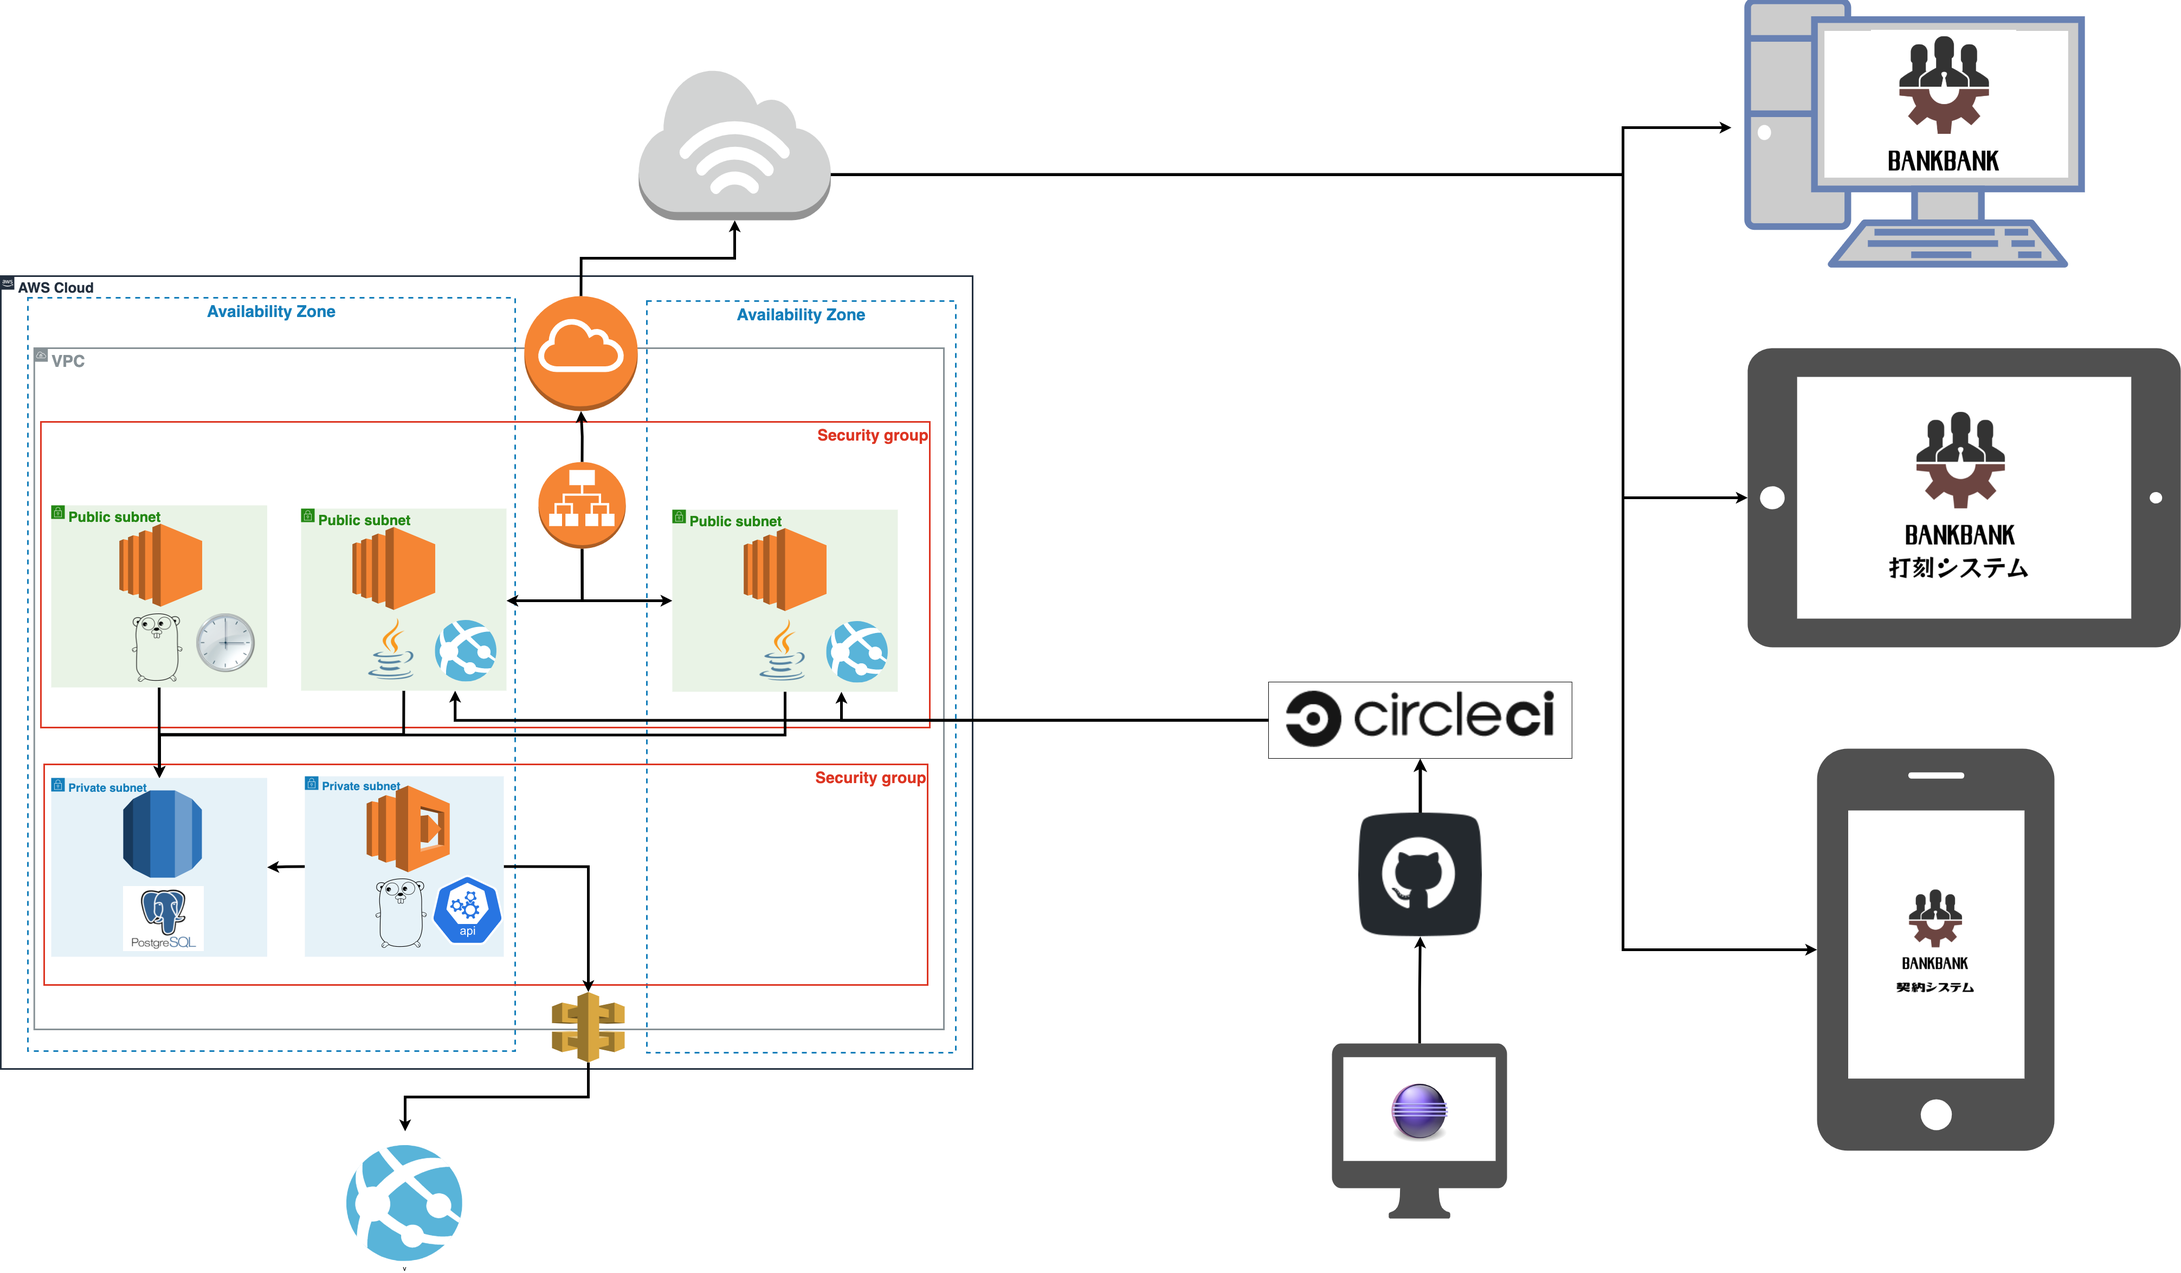
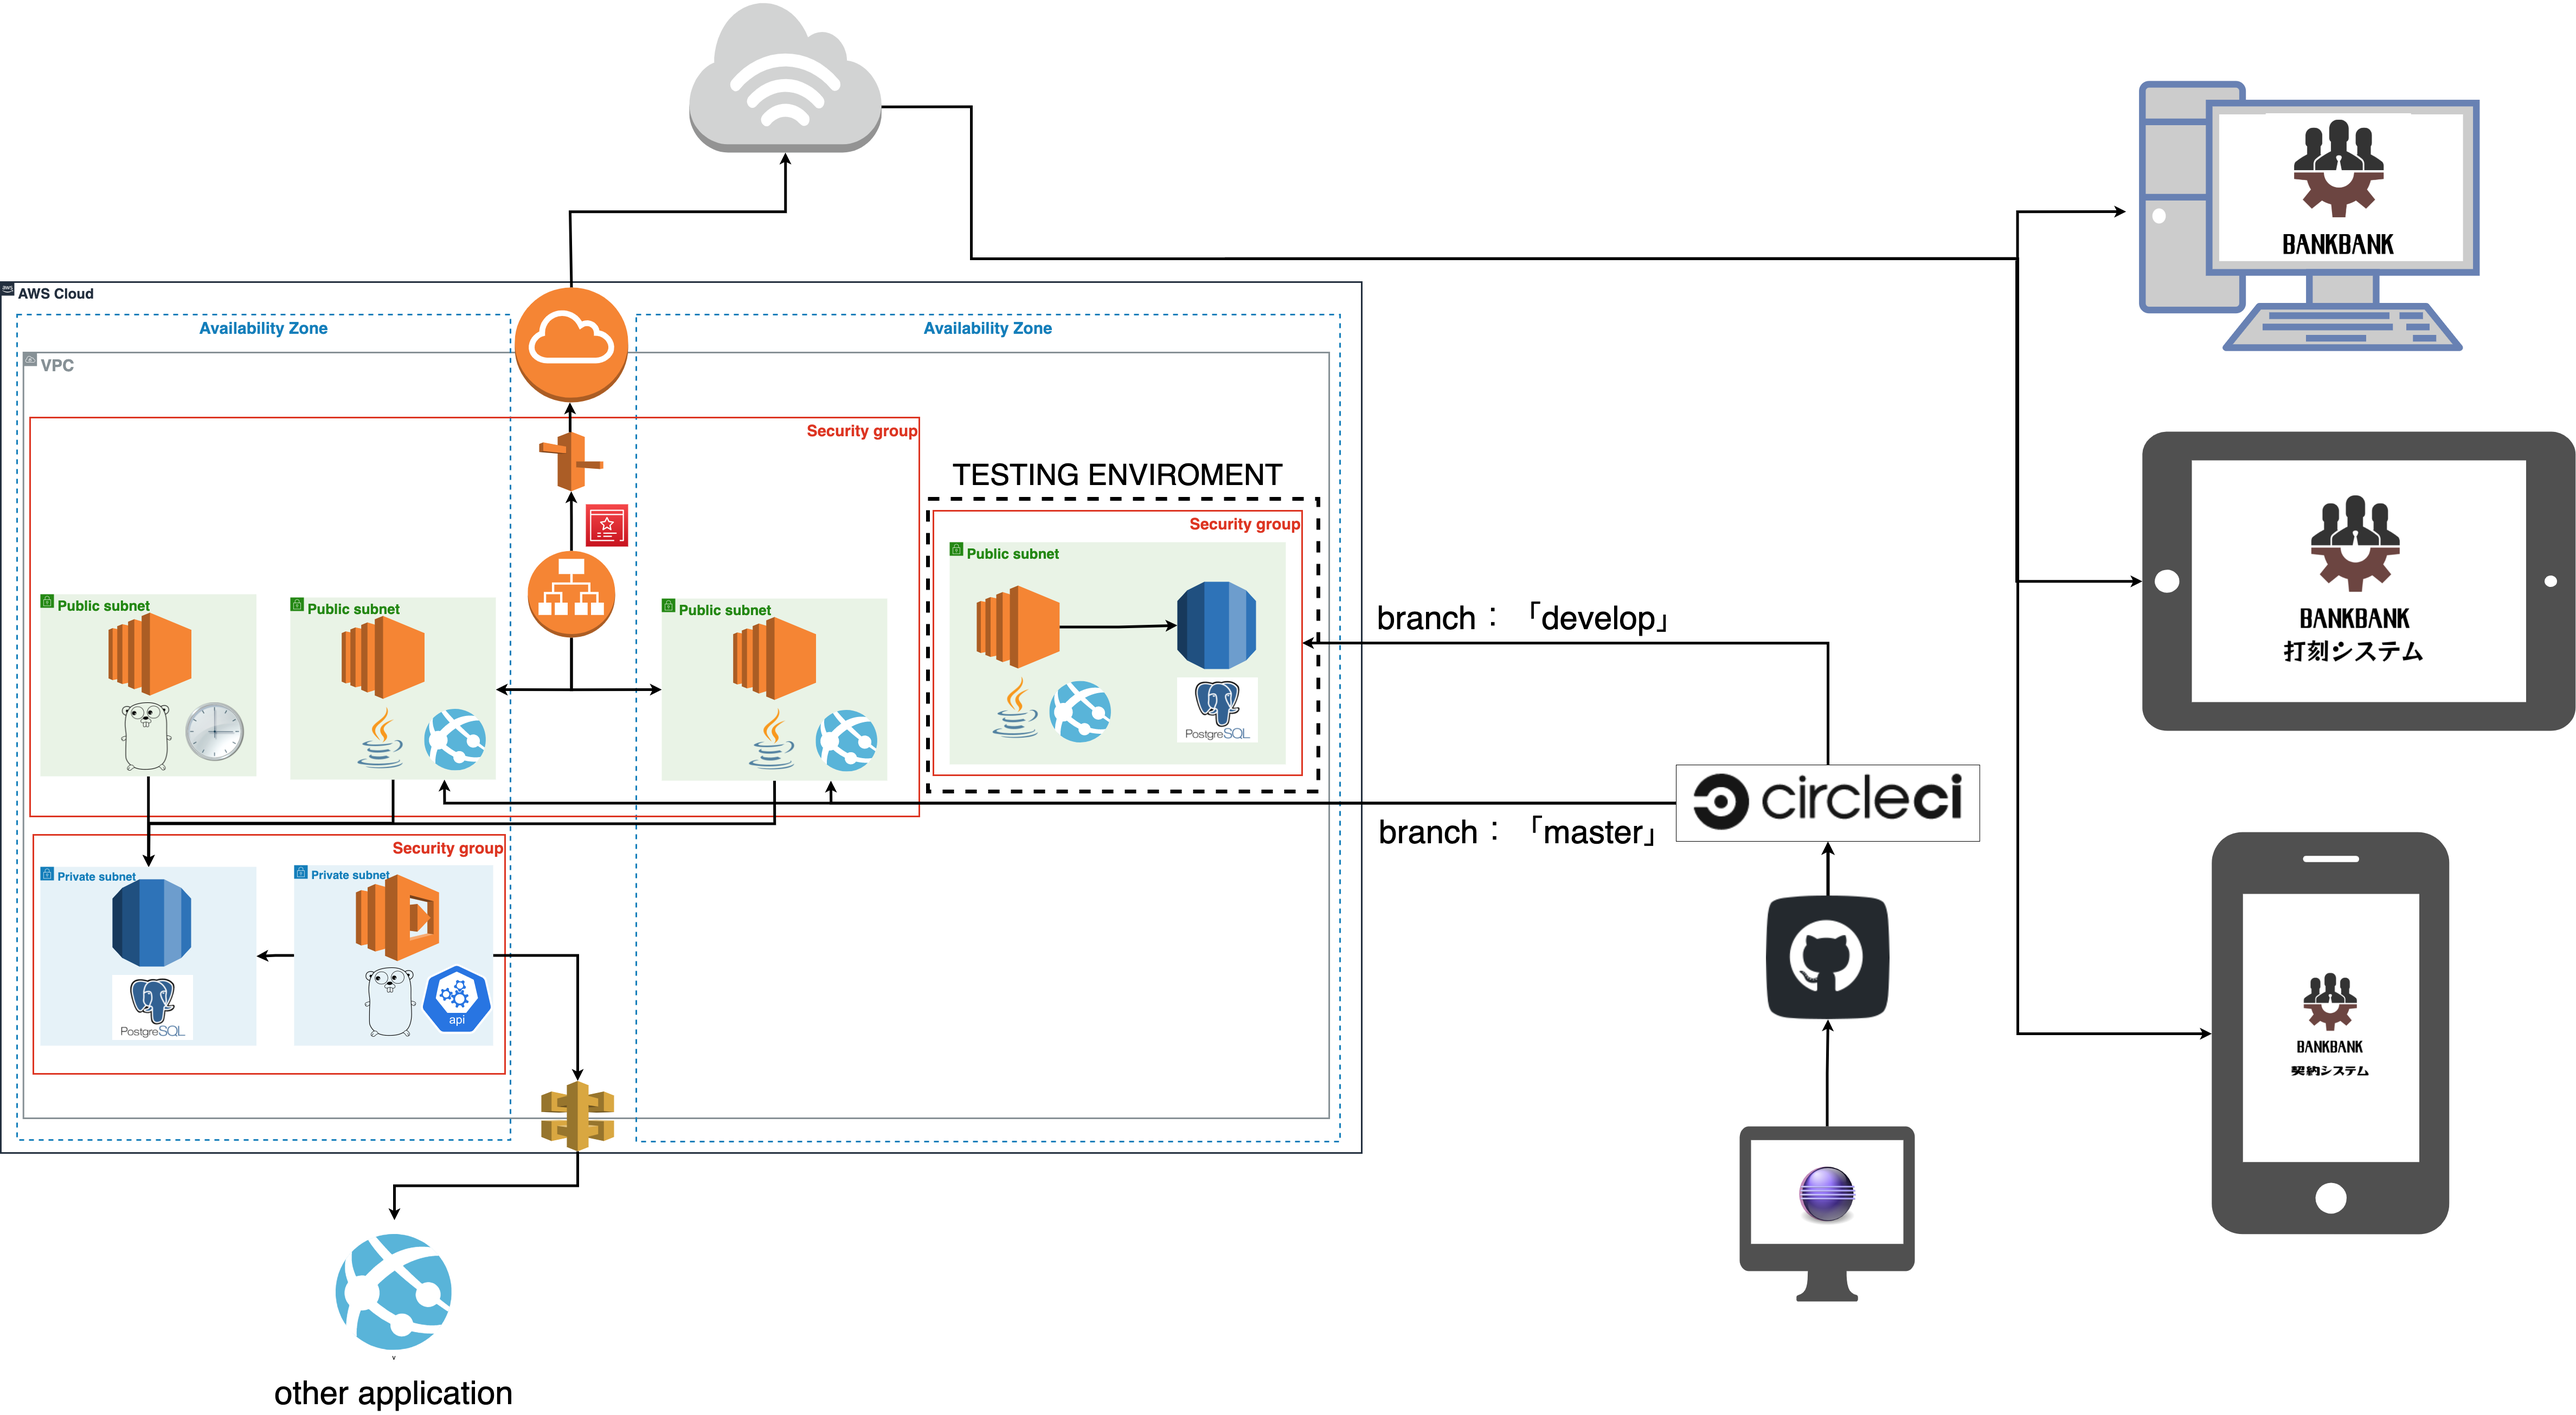
ReadMe修正

diff --git a/README.md b/README.md
@@ -34,6 +34,8 @@
 <p>　・RDS</p>
 <p>　・ALB</p>
 <p>　・Lambda</p>
+<p>　・Route53</p>
+<p>　・ACM</p>
 <br/>
 <p>◯GitHub</p>
 <p>◯CircleCi CI/CD</p>
